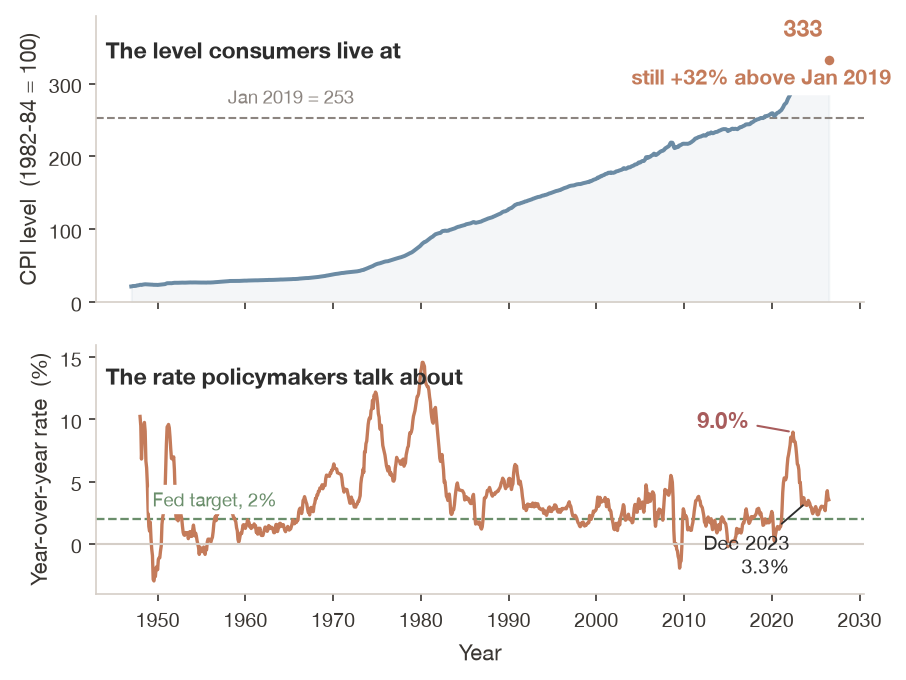
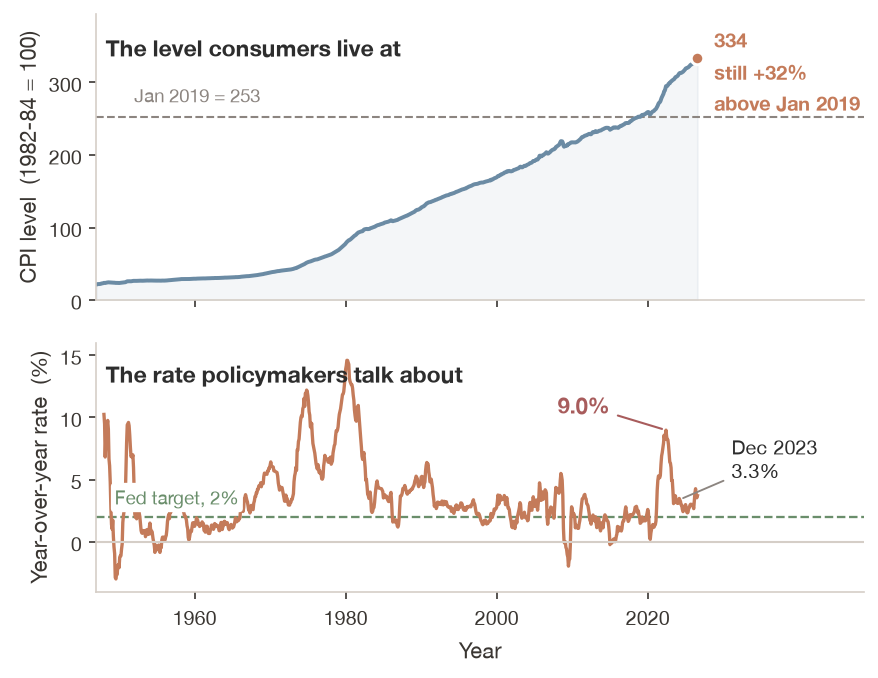
5200 Ch 2: 3916 opening-dashboard and hook slides; fix label collisions in Figure 1
The opening now runs dashboard -> hook -> figure, as 3916 does. The altimeter
vs constructed-index contrast (page 4) sets up the thesis, and the 3916 hook
replaces the two-panel 'Two Correct Answers' slide: same argument, but the
three tiles carry the number the households were actually reacting to (prices
~20% above 2019), which the CPI headline never shows. Slide id is unchanged, so
existing deep links still resolve. Notes merged - the grad framing and the
'do not reveal the fragment yet' beat are kept, and the FRED checks stay.

Figure 1 regenerated. Three labels collided or sat outside the axes: the
end-of-series marker was drawn on the spine with clip_on=False, '334' and
'still +32% above Jan 2019' overlapped each other at the top right, and
'Dec 2023 3.3%' ran into the zero line and the x tick labels with its leader
crossing the series. The series now gets a right margin to hold its own end
labels, the two top-panel labels are one stacked block, Dec 2023 sits to the
right of its point, and x ticks stop at 2020 so the margin does not advertise
empty years.

gen_cpi_level_vs_rate.py now fails loudly instead: check_labels() draws the
figure and raises if any annotation overlaps another, overlaps a tick label, or
escapes its axes. It caught all three of these.

52 visible slides across 47 top-level; overflow sweep clean, no broken images,
no console errors. Three copies identical.

diff --git a/econ5200/ch02-measurement-indexes-nominal-vs-real/index.html b/econ5200/ch02-measurement-indexes-nominal-vs-real/index.html
@@ -87,28 +87,47 @@
       <aside class="notes">1 min verbal (was 2 &mdash; cut 2026-09-13 to fit the 75-minute session). Cold-call ONE student, on QC2; answer QC1 yourself in a sentence. QC1 targets: which cities are sampled, what counts as "the same" burger, and that Russia's disappearance is MNAR so the bias direction is unknowable. QC2 targets: nominal scale, the numbers are labels, arithmetic is undefined on them. Keep QC2 &mdash; it returns in Section 4: the NPS survey item is ordinal, and NPS itself dodges averaging by bucketing, which is its own compression.</aside>
     </section>
 
-    <!-- SLIDE 4: Hook 1 -->
-    <section id="hook-vibecession" style="padding: 36px 60px;">
-      <h2><i class="fa-solid fa-triangle-exclamation" style="color: var(--danger-color);"></i> December 2023: Two Correct Answers</h2>
+    <!-- OPENING DASHBOARD (ported from 3916 2026-09-15) -->
+    <section id="opening-dashboard" style="padding: 36px 50px;">
+      <h2><i class="fa-solid fa-gauge-high" style="color: var(--secondary-color);"></i> The Dashboard You Trust</h2>
       <div class="content">
-        <div style="display: grid; grid-template-columns: 1fr 1fr; gap: 22px; margin-top: 10px;">
-          <div style="background: #f0f5f8; border-radius: 12px; padding: 22px; border-left: 4px solid var(--secondary-color);">
-            <p style="font-size: 14pt; color: var(--muted-color); text-transform: uppercase; letter-spacing: 2px; margin-bottom: 8px;">The statistic</p>
-            <p style="font-size: 15pt; line-height: 1.55;">CPI inflation had fallen from its mid&#8209;2022 peak to roughly <strong>3%</strong>. Economists declared the crisis over.</p>
-          </div>
-          <div style="background: #fdf0ea; border-radius: 12px; padding: 22px; border-left: 4px solid var(--accent-color);">
-            <p style="font-size: 14pt; color: var(--muted-color); text-transform: uppercase; letter-spacing: 2px; margin-bottom: 8px;">The households</p>
-            <p style="font-size: 15pt; line-height: 1.55;">Michigan consumer sentiment stayed <strong>far below pre-pandemic levels</strong>. Commentators called it a &ldquo;vibecession&rdquo; and blamed innumeracy.</p>
-          </div>
+        <img src="figures/figure_000_physical_vs_constructed.png" alt="Two panels. Left, The Physical Reality: an aircraft altimeter dial marked in thousands of feet. Right, The Constructed Reality: a tangled network of people and connections funnelling down into a single box that reads 3.1 percent." style="display: block; width: 100%; max-height: 360px; object-fit: contain; margin: 0 auto;">
+        <div style="display: grid; grid-template-columns: 1fr 1fr; gap: 28px; margin-top: 4px;">
+          <p style="font-size: 15.5pt; text-align: center; line-height: 1.45;">An altimeter is a <strong>measurement</strong>: what it reads is where you are.</p>
+          <p style="font-size: 15.5pt; text-align: center; line-height: 1.45;">An inflation rate is <strong>constructed</strong>: millions of prices blended into one number.</p>
         </div>
-        <div class="fragment fade-up" style="background: #f8f6f3; border-radius: 10px; padding: 20px 26px; margin-top: 22px; border-left: 4px solid var(--success-color);">
-          <p style="font-size: 17pt; line-height: 1.5;">Nobody was confused. The CPI measures the <strong>rate of change</strong>. Households were comparing to <strong>2019</strong> &mdash; a <em>level</em>.</p>
-          <p style="font-size: 15pt; color: var(--muted-color); margin-top: 8px;">Speed and altitude are different measurements. People live at altitudes.</p>
+        <div class="fragment fade-up" style="background: #f8f6f3; border-left: 4px solid var(--primary-color); border-radius: 8px; padding: 14px 24px; margin-top: 14px;">
+          <p style="font-size: 17pt;">The inflation rate, the Dow, DAU/MAU: every one of those numbers is an <strong>index</strong> &mdash; a blender that, by design, throws away most of reality to hand you a clean headline.</p>
         </div>
       </div>
-      <aside class="notes">2 min. Do NOT reveal the fragment until you have let the contradiction sit. Ask the room: "who was wrong?" Someone will say the consumers. Then the fragment. The whole lecture is contained in this slide &mdash; a correct index asked the wrong question. Precision if challenged: Michigan sentiment actually jumped in December 2023 (61.3 &rarr; 69.7), but stayed well below its long-run average of about 85.</aside>
+      <aside class="notes">1.5 min. The opening, adapted from the NotebookLM Deep Dive. Imagine you are in the pilot seat of a commercial airliner, looking at the dashboard: the altimeter, the airspeed. You expect it to be the truth. If the altimeter says 30,000 feet, you are at 30,000 feet, because it is a mechanical measurement, a direct translation of physical reality into a number. Here is the uncomfortable part: we carry that same expectation of objective truth to the dashboards that run the economy. The inflation rate on the evening news, the stock ticker, the engagement metrics that keep your favourite app in business. Those are not physical measurements. They are constructed. Every one of them is an index, and an index is a blender: it takes millions of messy human behaviours - every grocery purchase, every stock trade, every tap on a phone - and crushes them into one refined number. Today's premise is that the blender is flawed by design: it throws away a great deal of reality to give you a clean headline. [click for the callout] Bridge to the hook: "Here is the dashboard that fooled almost everyone in 2023." Ported from the 3916 deck 2026-09-15; for this room, the altimeter/index contrast is the setup for the thesis slide three slides later, so keep it to the pilot image and do not pre-empt "compression". Image: NotebookLM slide, cropped by the instructor; the dial's garbled numbers (30 and 40 where 80 and 90 belong) and a garbled "cloyi feet" label were corrected on 2026-09-14.</aside>
     </section>
 
+    <!-- SLIDE 4: hook (3916 version, ported 2026-09-15) -->
+    <section id="hook-vibecession" style="padding: 40px 50px;">
+      <h2><i class="fa-solid fa-face-frown" style="color: var(--danger-color);"></i> Late 2023: The Numbers Said Recovery</h2>
+      <div class="content">
+        <div style="display: grid; grid-template-columns: repeat(3, 1fr); gap: 14px; margin-top: 6px;">
+          <div style="background: #eef5ee; border-radius: 10px; padding: 18px; text-align: center; border-top: 4px solid var(--success-color);">
+            <p style="font-size: 28pt; font-weight: 700; color: var(--success-color);">9.1% &rarr; 3.1%</p>
+            <p style="font-size: 13.5pt; margin-top: 4px;">CPI inflation, June 2022 peak to late 2023</p>
+          </div>
+          <div style="background: #fdf3ee; border-radius: 10px; padding: 18px; text-align: center; border-top: 4px solid var(--accent-color);">
+            <p style="font-size: 28pt; font-weight: 700; color: var(--accent-color);">61&ndash;70</p>
+            <p style="font-size: 13.5pt; margin-top: 4px;">Michigan Consumer Sentiment, late 2023 &mdash; against 96 in 2019</p>
+          </div>
+          <div style="background: #f7eef2; border-radius: 10px; padding: 18px; text-align: center; border-top: 4px solid #7C3A5F;">
+            <p style="font-size: 28pt; font-weight: 700; color: #7C3A5F;">~20%</p>
+            <p style="font-size: 13.5pt; margin-top: 4px;">How much higher prices were than in 2019</p>
+          </div>
+        </div>
+        <div class="fragment fade-up" style="background: #f8f6f3; border-left: 4px solid var(--primary-color); border-radius: 8px; padding: 18px 24px; margin-top: 20px;">
+          <p style="font-size: 17pt;">The puzzle is not that consumers are irrational. <strong>The CPI measures the <em>rate of change</em> in prices, not the <em>level</em>.</strong> A family shopping in December 2023 was not comparing that month to the previous December. They were comparing it to 2019.</p>
+        </div>
+        <p class="fragment fade-up" style="font-size: 16pt; margin-top: 16px; text-align: center; font-style: italic; color: var(--muted-color);">A car decelerating from 90 to 60 mph is still going fast. The passengers still feel it.</p>
+      </div>
+      <aside class="notes">2 min (3916 version ported 2026-09-15, replacing the two-panel "Two Correct Answers" slide). Do NOT reveal the first fragment until the contradiction has sat for a beat. Ask the room: "who was wrong?" Someone will say the consumers. Then the fragment. The whole session is contained in this slide &mdash; a correct index asked the wrong question. The three tiles are the upgrade over the old version: the 20% is the number the households were actually reacting to, and it is the one the CPI headline never shows. CHECKED 2026-09-13 against FRED: UMCSENT was 61.3 in Nov 2023 and jumped to 69.7 in Dec (2019 average 96.0, long-run average about 84), so say far below pre-pandemic rather than "recession reading". CPIAUCSL Dec 2019 to Dec 2023 is +19.4%, hence "about 20%". The 9.1 &rarr; 3.1 pair is the not-seasonally-adjusted headline; the next slide plots CPIAUCSL, which prints 9.0 and 3.3, and that mismatch is itself the lesson &mdash; flag it there, not here. Vibecession is Kyla Scanlon's term, 2022.</aside>
+    </section>
     <!-- SLIDE 5: Hook 2 — Figure 1 -->
     <section id="hook-figure" style="padding: 20px 44px;">
       <h2 style="margin-bottom: 6px;"><i class="fa-solid fa-chart-line" style="color: var(--secondary-color);"></i> The Vibecession in One Picture</h2>

diff --git a/econ5200/ch02-measurement-indexes-nominal-vs-real/presentation.html b/econ5200/ch02-measurement-indexes-nominal-vs-real/presentation.html
@@ -87,28 +87,47 @@
       <aside class="notes">1 min verbal (was 2 &mdash; cut 2026-09-13 to fit the 75-minute session). Cold-call ONE student, on QC2; answer QC1 yourself in a sentence. QC1 targets: which cities are sampled, what counts as "the same" burger, and that Russia's disappearance is MNAR so the bias direction is unknowable. QC2 targets: nominal scale, the numbers are labels, arithmetic is undefined on them. Keep QC2 &mdash; it returns in Section 4: the NPS survey item is ordinal, and NPS itself dodges averaging by bucketing, which is its own compression.</aside>
     </section>
 
-    <!-- SLIDE 4: Hook 1 -->
-    <section id="hook-vibecession" style="padding: 36px 60px;">
-      <h2><i class="fa-solid fa-triangle-exclamation" style="color: var(--danger-color);"></i> December 2023: Two Correct Answers</h2>
+    <!-- OPENING DASHBOARD (ported from 3916 2026-09-15) -->
+    <section id="opening-dashboard" style="padding: 36px 50px;">
+      <h2><i class="fa-solid fa-gauge-high" style="color: var(--secondary-color);"></i> The Dashboard You Trust</h2>
       <div class="content">
-        <div style="display: grid; grid-template-columns: 1fr 1fr; gap: 22px; margin-top: 10px;">
-          <div style="background: #f0f5f8; border-radius: 12px; padding: 22px; border-left: 4px solid var(--secondary-color);">
-            <p style="font-size: 14pt; color: var(--muted-color); text-transform: uppercase; letter-spacing: 2px; margin-bottom: 8px;">The statistic</p>
-            <p style="font-size: 15pt; line-height: 1.55;">CPI inflation had fallen from its mid&#8209;2022 peak to roughly <strong>3%</strong>. Economists declared the crisis over.</p>
-          </div>
-          <div style="background: #fdf0ea; border-radius: 12px; padding: 22px; border-left: 4px solid var(--accent-color);">
-            <p style="font-size: 14pt; color: var(--muted-color); text-transform: uppercase; letter-spacing: 2px; margin-bottom: 8px;">The households</p>
-            <p style="font-size: 15pt; line-height: 1.55;">Michigan consumer sentiment stayed <strong>far below pre-pandemic levels</strong>. Commentators called it a &ldquo;vibecession&rdquo; and blamed innumeracy.</p>
-          </div>
+        <img src="figures/figure_000_physical_vs_constructed.png" alt="Two panels. Left, The Physical Reality: an aircraft altimeter dial marked in thousands of feet. Right, The Constructed Reality: a tangled network of people and connections funnelling down into a single box that reads 3.1 percent." style="display: block; width: 100%; max-height: 360px; object-fit: contain; margin: 0 auto;">
+        <div style="display: grid; grid-template-columns: 1fr 1fr; gap: 28px; margin-top: 4px;">
+          <p style="font-size: 15.5pt; text-align: center; line-height: 1.45;">An altimeter is a <strong>measurement</strong>: what it reads is where you are.</p>
+          <p style="font-size: 15.5pt; text-align: center; line-height: 1.45;">An inflation rate is <strong>constructed</strong>: millions of prices blended into one number.</p>
         </div>
-        <div class="fragment fade-up" style="background: #f8f6f3; border-radius: 10px; padding: 20px 26px; margin-top: 22px; border-left: 4px solid var(--success-color);">
-          <p style="font-size: 17pt; line-height: 1.5;">Nobody was confused. The CPI measures the <strong>rate of change</strong>. Households were comparing to <strong>2019</strong> &mdash; a <em>level</em>.</p>
-          <p style="font-size: 15pt; color: var(--muted-color); margin-top: 8px;">Speed and altitude are different measurements. People live at altitudes.</p>
+        <div class="fragment fade-up" style="background: #f8f6f3; border-left: 4px solid var(--primary-color); border-radius: 8px; padding: 14px 24px; margin-top: 14px;">
+          <p style="font-size: 17pt;">The inflation rate, the Dow, DAU/MAU: every one of those numbers is an <strong>index</strong> &mdash; a blender that, by design, throws away most of reality to hand you a clean headline.</p>
         </div>
       </div>
-      <aside class="notes">2 min. Do NOT reveal the fragment until you have let the contradiction sit. Ask the room: "who was wrong?" Someone will say the consumers. Then the fragment. The whole lecture is contained in this slide &mdash; a correct index asked the wrong question. Precision if challenged: Michigan sentiment actually jumped in December 2023 (61.3 &rarr; 69.7), but stayed well below its long-run average of about 85.</aside>
+      <aside class="notes">1.5 min. The opening, adapted from the NotebookLM Deep Dive. Imagine you are in the pilot seat of a commercial airliner, looking at the dashboard: the altimeter, the airspeed. You expect it to be the truth. If the altimeter says 30,000 feet, you are at 30,000 feet, because it is a mechanical measurement, a direct translation of physical reality into a number. Here is the uncomfortable part: we carry that same expectation of objective truth to the dashboards that run the economy. The inflation rate on the evening news, the stock ticker, the engagement metrics that keep your favourite app in business. Those are not physical measurements. They are constructed. Every one of them is an index, and an index is a blender: it takes millions of messy human behaviours - every grocery purchase, every stock trade, every tap on a phone - and crushes them into one refined number. Today's premise is that the blender is flawed by design: it throws away a great deal of reality to give you a clean headline. [click for the callout] Bridge to the hook: "Here is the dashboard that fooled almost everyone in 2023." Ported from the 3916 deck 2026-09-15; for this room, the altimeter/index contrast is the setup for the thesis slide three slides later, so keep it to the pilot image and do not pre-empt "compression". Image: NotebookLM slide, cropped by the instructor; the dial's garbled numbers (30 and 40 where 80 and 90 belong) and a garbled "cloyi feet" label were corrected on 2026-09-14.</aside>
     </section>
 
+    <!-- SLIDE 4: hook (3916 version, ported 2026-09-15) -->
+    <section id="hook-vibecession" style="padding: 40px 50px;">
+      <h2><i class="fa-solid fa-face-frown" style="color: var(--danger-color);"></i> Late 2023: The Numbers Said Recovery</h2>
+      <div class="content">
+        <div style="display: grid; grid-template-columns: repeat(3, 1fr); gap: 14px; margin-top: 6px;">
+          <div style="background: #eef5ee; border-radius: 10px; padding: 18px; text-align: center; border-top: 4px solid var(--success-color);">
+            <p style="font-size: 28pt; font-weight: 700; color: var(--success-color);">9.1% &rarr; 3.1%</p>
+            <p style="font-size: 13.5pt; margin-top: 4px;">CPI inflation, June 2022 peak to late 2023</p>
+          </div>
+          <div style="background: #fdf3ee; border-radius: 10px; padding: 18px; text-align: center; border-top: 4px solid var(--accent-color);">
+            <p style="font-size: 28pt; font-weight: 700; color: var(--accent-color);">61&ndash;70</p>
+            <p style="font-size: 13.5pt; margin-top: 4px;">Michigan Consumer Sentiment, late 2023 &mdash; against 96 in 2019</p>
+          </div>
+          <div style="background: #f7eef2; border-radius: 10px; padding: 18px; text-align: center; border-top: 4px solid #7C3A5F;">
+            <p style="font-size: 28pt; font-weight: 700; color: #7C3A5F;">~20%</p>
+            <p style="font-size: 13.5pt; margin-top: 4px;">How much higher prices were than in 2019</p>
+          </div>
+        </div>
+        <div class="fragment fade-up" style="background: #f8f6f3; border-left: 4px solid var(--primary-color); border-radius: 8px; padding: 18px 24px; margin-top: 20px;">
+          <p style="font-size: 17pt;">The puzzle is not that consumers are irrational. <strong>The CPI measures the <em>rate of change</em> in prices, not the <em>level</em>.</strong> A family shopping in December 2023 was not comparing that month to the previous December. They were comparing it to 2019.</p>
+        </div>
+        <p class="fragment fade-up" style="font-size: 16pt; margin-top: 16px; text-align: center; font-style: italic; color: var(--muted-color);">A car decelerating from 90 to 60 mph is still going fast. The passengers still feel it.</p>
+      </div>
+      <aside class="notes">2 min (3916 version ported 2026-09-15, replacing the two-panel "Two Correct Answers" slide). Do NOT reveal the first fragment until the contradiction has sat for a beat. Ask the room: "who was wrong?" Someone will say the consumers. Then the fragment. The whole session is contained in this slide &mdash; a correct index asked the wrong question. The three tiles are the upgrade over the old version: the 20% is the number the households were actually reacting to, and it is the one the CPI headline never shows. CHECKED 2026-09-13 against FRED: UMCSENT was 61.3 in Nov 2023 and jumped to 69.7 in Dec (2019 average 96.0, long-run average about 84), so say far below pre-pandemic rather than "recession reading". CPIAUCSL Dec 2019 to Dec 2023 is +19.4%, hence "about 20%". The 9.1 &rarr; 3.1 pair is the not-seasonally-adjusted headline; the next slide plots CPIAUCSL, which prints 9.0 and 3.3, and that mismatch is itself the lesson &mdash; flag it there, not here. Vibecession is Kyla Scanlon's term, 2022.</aside>
+    </section>
     <!-- SLIDE 5: Hook 2 — Figure 1 -->
     <section id="hook-figure" style="padding: 20px 44px;">
       <h2 style="margin-bottom: 6px;"><i class="fa-solid fa-chart-line" style="color: var(--secondary-color);"></i> The Vibecession in One Picture</h2>
